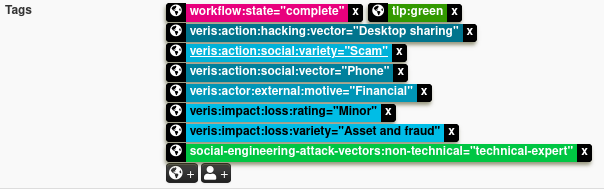
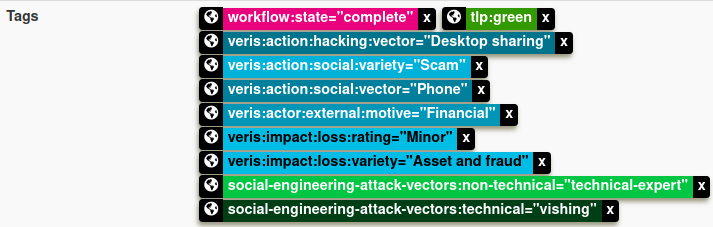
chg: [e.205] Continued ransom case

diff --git a/e.205-mapping-investigations-and-cases-in-misp/slides/content.tex b/e.205-mapping-investigations-and-cases-in-misp/slides/content.tex
@@ -404,14 +404,15 @@
 \begin{frame}
     \frametitle{Case study 1: Scam call}
     \begin{itemize}
-        \item Contextualizing the data
+        \item Contextualizing the data: Taxonomies
         \begin{itemize}
-            \item Different country / sectors might use different nomemclature
+            \item Note: Different country / sectors might use different nomemclature
         \end{itemize}
-        \item Suggestions for tagging:
+        \item Suggestions for tagging with taxonomies:
         \begin{itemize}
             \item \texttt{circl:incident-classification="scam"}
             \item \texttt{\tiny social-engineering-attack-vectors:non-technical="technical-expert"}
+            \item \texttt{\tiny social-engineering-attack-vectors:technical="vishing"}
             \item \texttt{veris:action:hacking:vector="Desktop sharing"}
             \item \texttt{veris:action:malware:vector="Direct install"}
             \item \texttt{veris:action:social:variety="Scam"}
@@ -428,6 +429,22 @@
 \begin{frame}
     \frametitle{Case study 1: Scam call}
     \includegraphics[width=1.0\linewidth]{pictures/case1/event-tags.png}
+\end{frame}
+
+\begin{frame}
+    \frametitle{Case study 1: Scam call}
+    \begin{itemize}
+        \item Contextualizing the data: Galaxy Clusters
+        \begin{itemize}
+            \item Note: Different country / sectors might use different nomemclature
+        \end{itemize}
+        \item Suggestions for tagging with Galaxies:
+        \begin{itemize}
+            \item MITRE Attack Pattern
+        \end{itemize}
+    \end{itemize}
+    \vspace{1cm}
+    \includegraphics[width=1.0\linewidth]{pictures/case1/event-clusters.png}
 \end{frame}
 
 \begin{frame}
@@ -449,7 +466,6 @@
             \end{itemize}
         \end{itemize}
     \end{itemize}
-
 \end{frame}
 
 \begin{frame}
@@ -469,6 +485,7 @@
         \item The current instance is connected to a central MISP instance acting as a "hub"
         \item The "hub" is connected to various other MISP instances such as other LEAs, CSIRTs, Financial and telecom institutions
     \end{itemize}
+    \textbf{include diagram}
 \end{frame}
 
 \begin{frame}
@@ -537,7 +554,7 @@
         \item[] \textbf{Collected evidences}
         \begin{itemize}
             \item E-mail received by the victim
-            \item E-mail attachment of the ransomare as an .exe payload
+            \item E-mail attachment of the ransomware as an .exe payload
             \item Windows registry
             \item Ransomware's public key (PK)
             \item Captured network traffic
@@ -759,7 +776,7 @@ D5UfPkv337plrEiUuwIDAQAB
 \begin{frame}
     \frametitle{Case study 2: Ransomware}
     \begin{itemize}
-        \item Encode the registry keys used for ransomare PK
+        \item Encode the registry keys used for ransomware PK
         \item As the registry keys contains multiple contextually linked data points, we should use an \texttt{registry-key} \textit{object}
         \item Add a contextual comment such as
         \begin{itemize}
@@ -806,10 +823,12 @@ D5UfPkv337plrEiUuwIDAQAB
 \begin{frame}
     \frametitle{Case study 2: Ransomware}
     \begin{itemize}
-        \item Encode the XOR key
-        \item Pick the \texttt{Artifacts dropeed} category and \texttt{hex}  \texttt{type}
-        \item Check the \texttt{For Intrusion Detection System}
-        \item Add a contextual comment such as
+        % \item Encode the XOR key
+        % \item Pick the \texttt{Artifacts dropeed} category and \texttt{hex} \texttt{type}
+        % \item Check the \texttt{For Intrusion Detection System}
+        % \item Add a contextual comment such as
+        % TODO
+        \item use crypto material
         \begin{itemize}
             \item \texttt{XOR key used to encode the malware's configuration in the registry}
         \end{itemize}
@@ -897,21 +916,225 @@ D5UfPkv337plrEiUuwIDAQAB
     \begin{itemize}
         \item Bitcoin wallet to view the transactions
     \end{itemize}
-    \includegraphics[width=1.0\linewidth]{pictures/case2/enrichment2.png}
+    \includegraphics[width=1.0\linewidth]{pictures/case2/enrichment-btc.png}
 \end{frame}
 
 \begin{frame}
-    \frametitle{Case study 1: Scam call}
+    \frametitle{Case study 2: Ransomware}
     \begin{itemize}
         \item Contextualizing the data
         \begin{itemize}
             \item Different country / sectors might use different nomemclature
         \end{itemize}
-        \item Suggestions for tagging:
+        \item Suggestions of taxonomies for tagging:
         \begin{itemize}
-            \item 
+            \item \texttt{adversary}: adversary infrastructure
+            \item \texttt{circl}: Classification in Incident Response
+            \item \texttt{enisa}: ENISA structuring aid for information and threats
+            \item \texttt{europol-*}: Describe the type of events or incidents
+            \item \texttt{maec-*}: Malware Attribute Enumeration and Characterization
+            \item \texttt{malware\_classification}: Based on SANS malware 101
+            \item \texttt{ms-caro-malware}: Microsoft’s Malware Type and Platform
+            \item \texttt{ransomware}: ransomware types and the elements
+            \item \texttt{veris}: Vocabulary for Event Recording and Incident Sharing 
+            \item \texttt{collaborative-intelligence}: Support analysts
+            \item \texttt{workflow}: Support analysts
+            \item \texttt{tlp}: Traffic Light Protocol 
+        \end{itemize}
+    \end{itemize}
+\end{frame}
+
+\begin{frame}
+    \frametitle{Case study 2: Ransomware}
+    \begin{itemize}
+        \item Incident type
+        \begin{itemize}
+            \item \texttt{circl:incident-classification="ransomware"}
+            \item \texttt{enisa:nefarious-activity-abuse="ransomware"}
+            \item \texttt{europol-incident:malware="infection"}
+            \item \texttt{europol-incident:malware="c\&c"}
+            \item \texttt{ms-caro-malware:malware-type="Ransom"}
+        \end{itemize}
+        \item Malware type
+        \begin{itemize}
+            \item \texttt{\scriptsize malware\_classification:malware-category="Ransomware"}
+            \item \texttt{ransomware:type="crypto-ransomware"}
+        \end{itemize}
+        \item Collaration and Sharing
+        \begin{itemize}
+            \item \texttt{\tiny collaborative-intelligence:request="extracted-malware-config"}
             \item \texttt{workflow:state="complete"}
             \item \texttt{tlp:green}
         \end{itemize}
     \end{itemize}
+\end{frame}
+
+\begin{frame}
+    \frametitle{Case study 2: Ransomware}
+    \begin{itemize}
+        \item Infection vector
+        \begin{itemize}
+            \item \texttt{europol-event:dissemination-malware-email}
+            \item \texttt{\tiny maec-delivery-vectors:maec-delivery-vector="email-attachment"}
+            \item \texttt{ransomware:infection="phishing-e=mails"}
+        \end{itemize}
+        \item Adversary infrastructure
+        \begin{itemize}
+            \item \texttt{adversary:infrastructure-type="c2"}
+            \item \texttt{veris:action:malware:variety="C2"}
+        \end{itemize}
+    \end{itemize}
+\end{frame}
+
+\begin{frame}
+    \frametitle{Case study 2: Ransomware}
+    Malware-specific information
+    \begin{itemize}
+        \item \texttt{\scriptsize maec-malware-capabilities:maec-malware-capability="fraud"}
+        \item \texttt{\tiny maec-malware-capabilities:maec-malware-capability="persistence"}
+        \item \texttt{\tiny maec-malware-capabilities:maec-malware-capability="communicate-with-c2-server"}
+        \item \texttt{\tiny maec-malware-capabilities:maec-malware-capability="compromise-data-availability"}
+        \item \texttt{\scriptsize ransomware:element="ransomnote"}
+        \item \texttt{\scriptsize ransomware:element="dropper"}
+        \item \texttt{\tiny ransomware:complexity-level="file-restoration-possible-using-shadow-volume-copies"}
+        \item \texttt{\tiny ransomware:complexity-level="file-restoration-possible-using-backups"}
+        \item \texttt{\tiny ransomware:complexity-level=\\ "decryption-key-recovered-from-a-C\&C-server-or-network-communications"}
+        \item \texttt{\tiny ransomware:complexity-level="encryption-model-is-seemingly-flawless"}
+        \item \texttt{\scriptsize ransomware:purpose="deployed-as-ransomware-extortion"}
+        \item \texttt{\scriptsize ransomware:target="pc-workstation"}
+        \item \texttt{\scriptsize ransomware:communication="dga-based"}
+        \item \texttt{\scriptsize ransomware:malicious-action="asymmetric-key-encryption"}
+    \end{itemize}
+\end{frame}
+
+\begin{frame}
+    \frametitle{Case study 2: Ransomware}
+    \includegraphics[width=1.0\linewidth]{pictures/case2/event-tags.png}
+    \vspace{0.25cm}
+    \begin{itemize}
+        \item Danger of over-classification
+        \begin{itemize}
+            \item Make things cluttered and unreadable
+            \item Mixing classification scheme
+            \item Introduce a non-negligible overhead when using \textit{LIKE} filters (e.g. \texttt{tlp:\%})
+        \end{itemize}
+    \end{itemize}
+\end{frame}
+
+\begin{frame}
+    \frametitle{Case study 2: Ransomware}
+    \includegraphics[width=1.0\linewidth]{pictures/case2/attribute-tags1.png}
+    \vspace{0.25cm}
+    \begin{itemize}
+        \item Depending on the community, being complete on the contextualization can be useful for metrics and trends
+    \end{itemize}
+\end{frame}
+
+\begin{frame}
+    \frametitle{Case study 2: Ransomware}
+    \begin{itemize}
+        \item Adding tags on attribute level make the role of the data clearer
+        \item Make searches and exports easier
+    \end{itemize}
+    \includegraphics[width=1.0\linewidth]{pictures/case2/attribute-tags2.png}
+    \includegraphics[width=1.0\linewidth]{pictures/case2/attribute-tags3.png}
+\end{frame}
+
+\begin{frame}
+    \frametitle{Case study 2: Ransomware}
+    \begin{itemize}
+        \item Contextualizing the data: Galaxy Clusters
+        \begin{itemize}
+            \item Note: Different country / sectors might use different nomemclature
+        \end{itemize}
+        \item Suggestions for tagging with Galaxies:
+        \begin{itemize}
+            \item Malpedia
+            \item Ransomware
+            \item MITRE Attack Pattern
+            \item Preventive Measure
+        \end{itemize}
+    \end{itemize}
+\end{frame}
+
+\begin{frame}
+    \frametitle{Case study 2: Ransomware}
+    \begin{center}
+        \includegraphics[width=0.80\linewidth]{pictures/case2/event-clusters.png}
+    \end{center}
+\end{frame}
+
+\begin{frame}
+    \frametitle{Case study 2: Ransomware}
+    Preventive measures
+    \begin{center}
+        TODO: Include PM
+        % \includegraphics[width=0.80\linewidth]{pictures/case2/event-clusters2.png}
+    \end{center}
+\end{frame}
+
+\begin{frame}
+    \frametitle{Case study 2: Ransomware}
+    MITRE ATT\&CK Matrix\\
+
+    \vspace{1cm}
+    \includegraphics[width=1.0\linewidth]{pictures/case2/event-attack.png}
+\end{frame}
+
+\begin{frame}
+    \frametitle{Case study 2: Ransomware}
+    Create a small write-up as an \textit{event report}
+    \begin{itemize}
+        \item Create the \textit{event report} with a concise name
+        \item Example: Executive summary of the case
+        \begin{itemize}
+            \item Leave its content empty as it can be edited with more ease in the editor afterward
+        \end{itemize}
+        \item Write a summary with
+        \begin{itemize}
+            \item Quick chronology
+            \item Written explanation of the steps tooks by the ransomware
+            \item Reference to existing \textit{attributes} or \textit{objects} whenever possible
+            \begin{itemize}
+                \item The special syntax is: \texttt{@[scope]\{uuid\}}
+            \end{itemize}
+        \end{itemize}
+    \end{itemize}
+\end{frame}
+
+\begin{frame}
+    \frametitle{Case study 2: Ransomware}
+    Create a small write-up as an \textit{event report}
+    \begin{center}
+        % \includegraphics[width=0.65\linewidth]{pictures/case2/event-report.png}
+    \end{center}
+\end{frame}
+
+\begin{frame}
+    \frametitle{Case study 2: Ransomware}
+    Review the distribution level and publish
+    \begin{itemize}
+        \item In our case, we consider the following MISP network topology
+        \item The current instance is owned and managed by a LEA
+        \item The current instance is connected to a central MISP instance acting as a "hub"
+        \item The "hub" is connected to various other MISP instances such as other LEAs, CSIRTs, Financial and telecom institutions
+    \end{itemize}
+    \textbf{include diagram}
+\end{frame}
+
+\begin{frame}
+    \frametitle{Case study 2: Ransomware}
+    Review the distribution level and publish
+    \begin{itemize}
+        \item \texttt{binary file}: \textbf{All communities}
+        \item \texttt{person}: \textbf{LEA Sharing group}
+        \item \texttt{geolocation}: \textbf{LEA Sharing group}
+        \item \texttt{ip}: \textbf{All communities}
+        \begin{itemize}
+            \item The IP is clearly used for delivering malware: It's an IoC
+        \end{itemize}
+    \end{itemize}
+    \begin{center}
+        \textbf{$\rightarrow$ Publish the event!}
+    \end{center}
 \end{frame}
